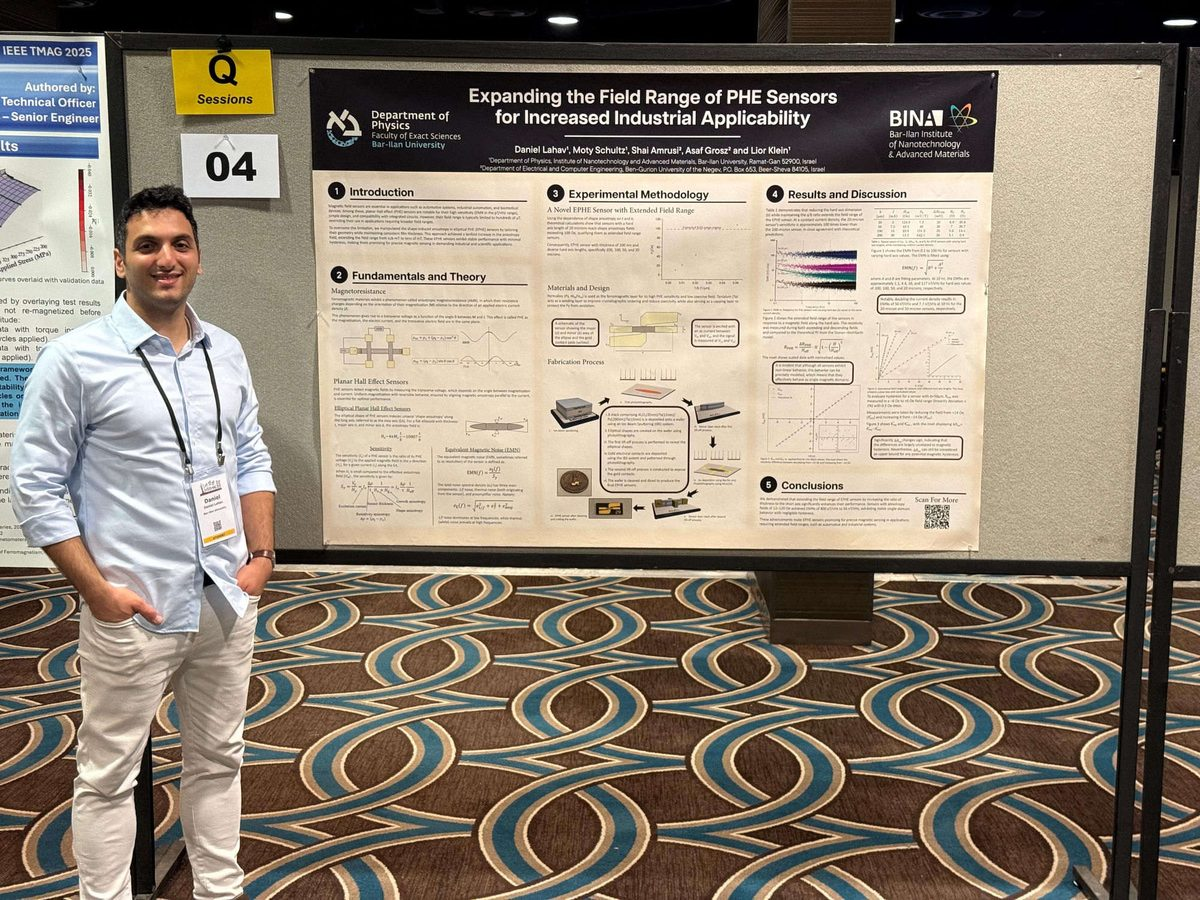
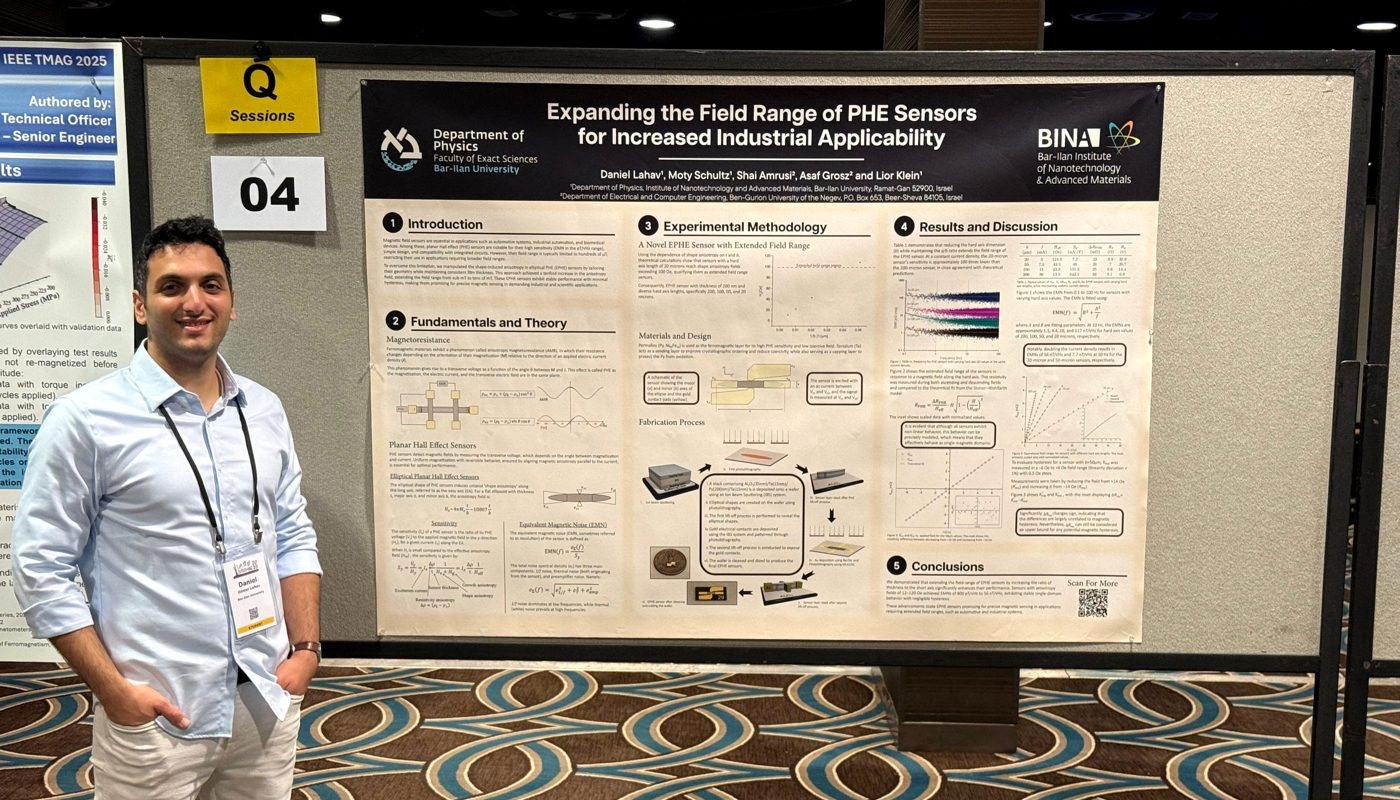
Home: re-crop the two conference photos so I'm not sliced
The talk and poster shots were 1200x900 files dropped into a 490x170
strip with object-fit:cover, so the centre band cut through the hairline
(poster) and the thighs (talk).

Re-cropped both from the higher-res 1400x1050 originals in assets/lab/
to 7:4 (1400x800), framed head-to-thigh with the full slide / full
poster in frame, and gave them a .work-fig.photo box with
aspect-ratio: 7/4 so the box matches the file and nothing is cropped at
any viewport width. Added intrinsic width/height to avoid layout shift.

diff --git a/index.html b/index.html
@@ -371,7 +371,7 @@
         </div>
         <div class="outline-grid">
           <div class="outline-card">
-            <img class="work-fig" src="/assets/conferences/talk-title-slide.jpg" alt="Daniel Lahav on stage presenting the talk &ldquo;Multi-Functional Flexible Planar Hall Effect Sensors&rdquo;, title slide on screen" loading="lazy" style="height:170px;margin-bottom:16px;">
+            <img class="work-fig photo" src="/assets/conferences/talk-title-slide.jpg" width="1400" height="800" alt="Daniel Lahav on stage presenting the talk &ldquo;Multi-Functional Flexible Planar Hall Effect Sensors&rdquo;, title slide on screen" loading="lazy" style="margin-bottom:16px;">
             <h3>Conference talks</h3>
             <ul class="plain-list">
               <li><span class="what">Multifunctional High-Resolution Flexible Elliptical Planar Hall Effect Sensors for Magnetometry and Strain Sensing</span> &middot; <span class="where">EMSA 2026 &middot; MMM 2026 (accepted)</span></li>
@@ -381,7 +381,7 @@
             </ul>
           </div>
           <div class="outline-card">
-            <img class="work-fig" src="/assets/conferences/poster-session.jpg" alt="Daniel Lahav beside his poster &ldquo;Expanding the Field Range of PHE Sensors for Increased Industrial Applicability&rdquo; at a poster session" loading="lazy" style="height:170px;margin-bottom:16px;">
+            <img class="work-fig photo" src="/assets/conferences/poster-session.jpg" width="1400" height="800" alt="Daniel Lahav beside his poster &ldquo;Expanding the Field Range of PHE Sensors for Increased Industrial Applicability&rdquo; at a poster session" loading="lazy" style="margin-bottom:16px;">
             <h3>Conference posters</h3>
             <ul class="plain-list">
               <li><span class="what">Enhanced Magnetic Resolution in Elliptical Planar Hall Effect Sensors via Non-Collinear Anisotropy Engineering</span> &middot; <span class="where">EMSA 2026</span></li>

diff --git a/styles.css b/styles.css
@@ -425,6 +425,8 @@ body.menu-open { overflow: hidden; }
 .work-card p { font-size: 14.5px; color: var(--text-body); line-height: 1.6; margin: 0; }
 .work-fig { width: 100%; height: 190px; object-fit: cover; border-radius: 8px; display: block; background: var(--cream-soft); }
 .work-fig.contain { object-fit: contain; background: var(--white); }
+/* photos pre-cropped to 7:4 — box matches the file, so nothing is cropped at any width */
+.work-fig.photo { height: auto; aspect-ratio: 7 / 4; }
 .work-card .work-fig { border: 1px solid var(--line); background: var(--white); }
 /* hover-to-play talk-opening video */
 .video-viewer { position: relative; height: 190px; border-radius: 8px; overflow: hidden; background: var(--cream-soft); }
